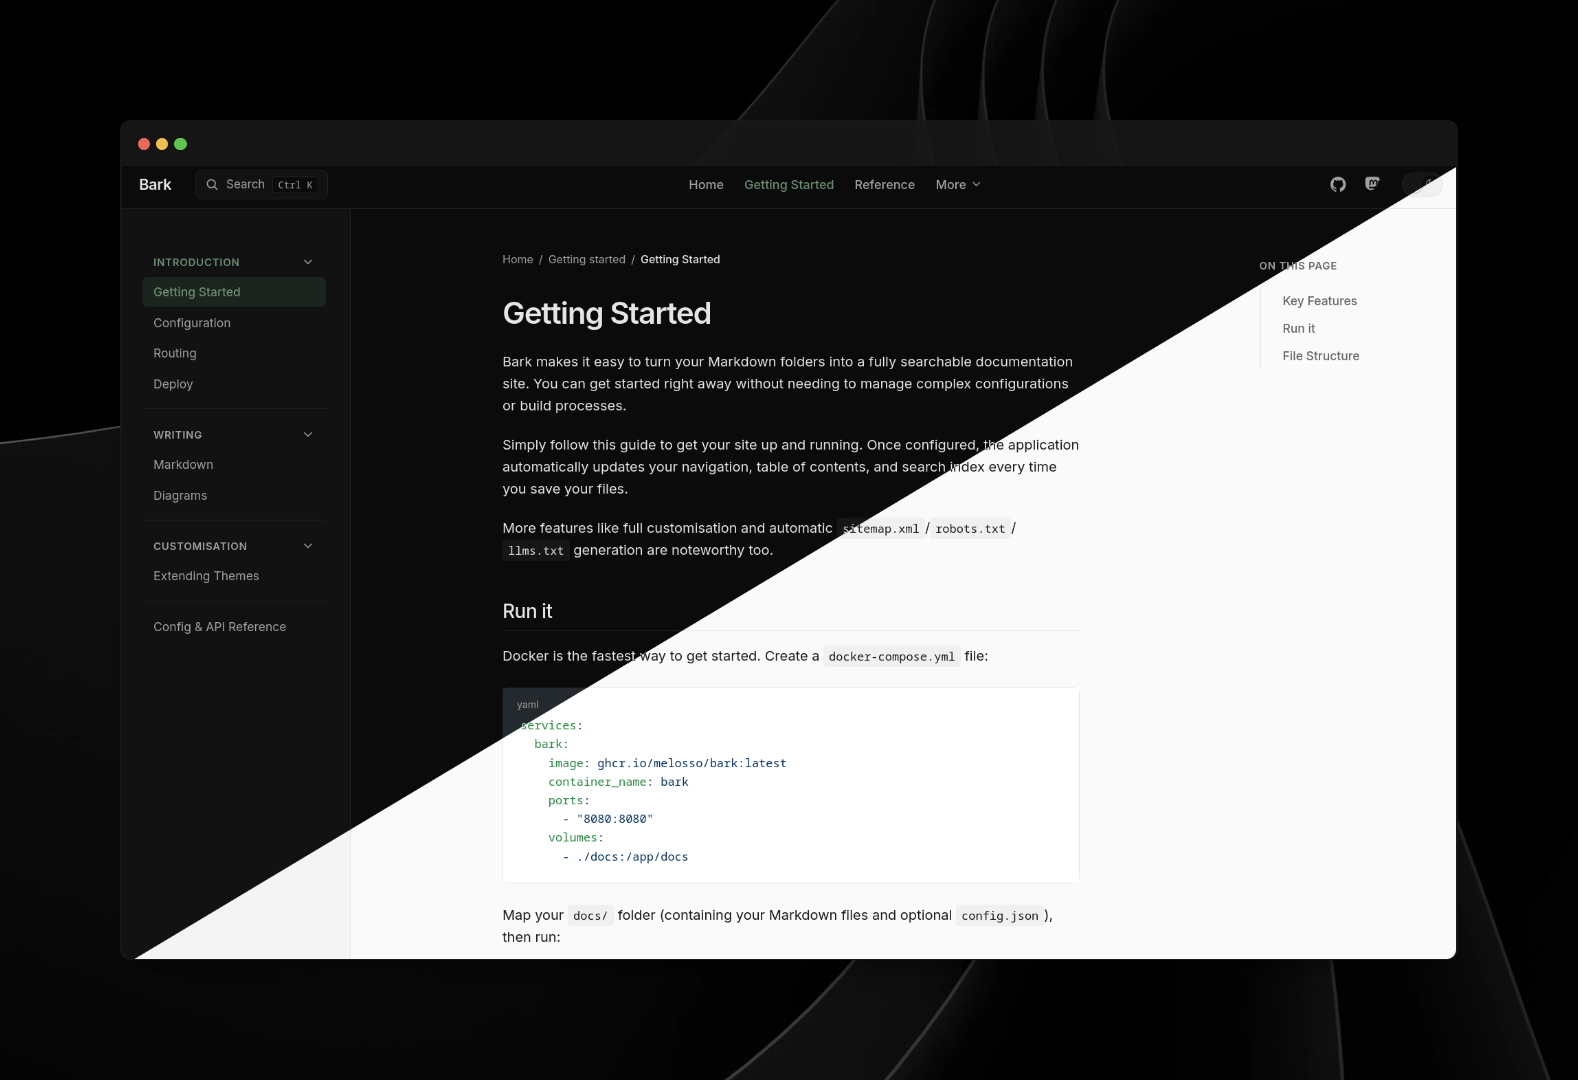
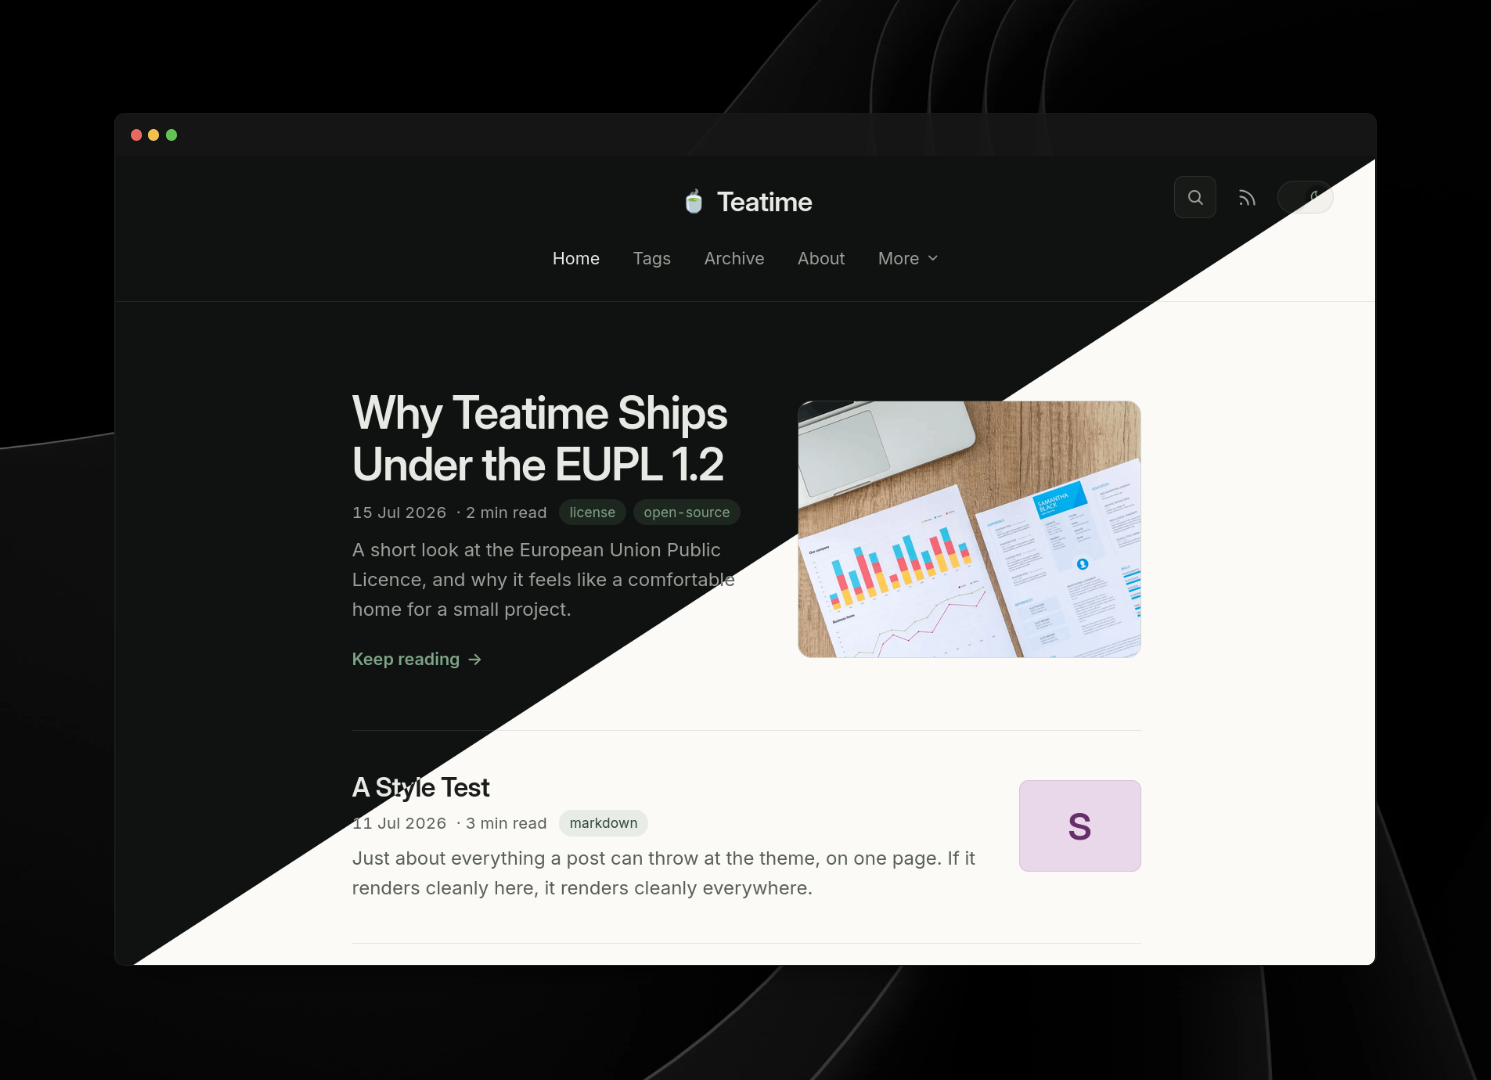
chore: change preview image

diff --git a/README.md b/README.md
@@ -2,7 +2,9 @@
 
 Meet Teatime: a personal blog engine that is really just a folder of Markdown files. If you can write a `.md` file, you already have a fast, self hosted blog with tags, an archive, and an RSS feed ready to go.
 
-Teatime is built on the modern .NET stack. It grew out of [Bark](https://github.com/melosso/bark), a Markdown documentation server, so it keeps that same instant, in memory rendering approach and reshapes it for writing posts rather than documentation. There is no database, and no separate build step to wait on.
+Teatime is built on the modern .NET stack. It grew out of [Bark](https://github.com/melosso/bark), a fast Markdown documentation server, so it keeps that same instant, in memory rendering approach allowing you to publish your posts directly without a build step or other dependencies.
+
+![Screenshot of Teatime](.github/images/preview.webp)
 
 ## How it works
 